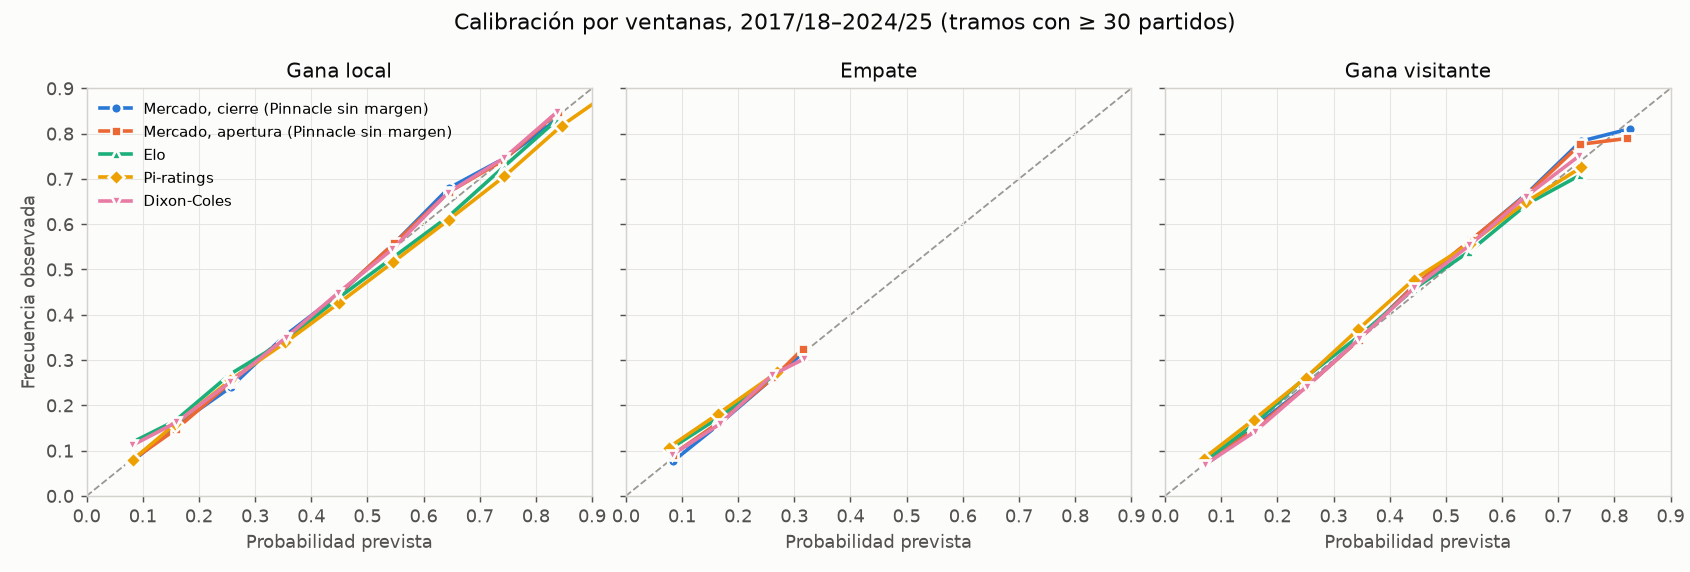
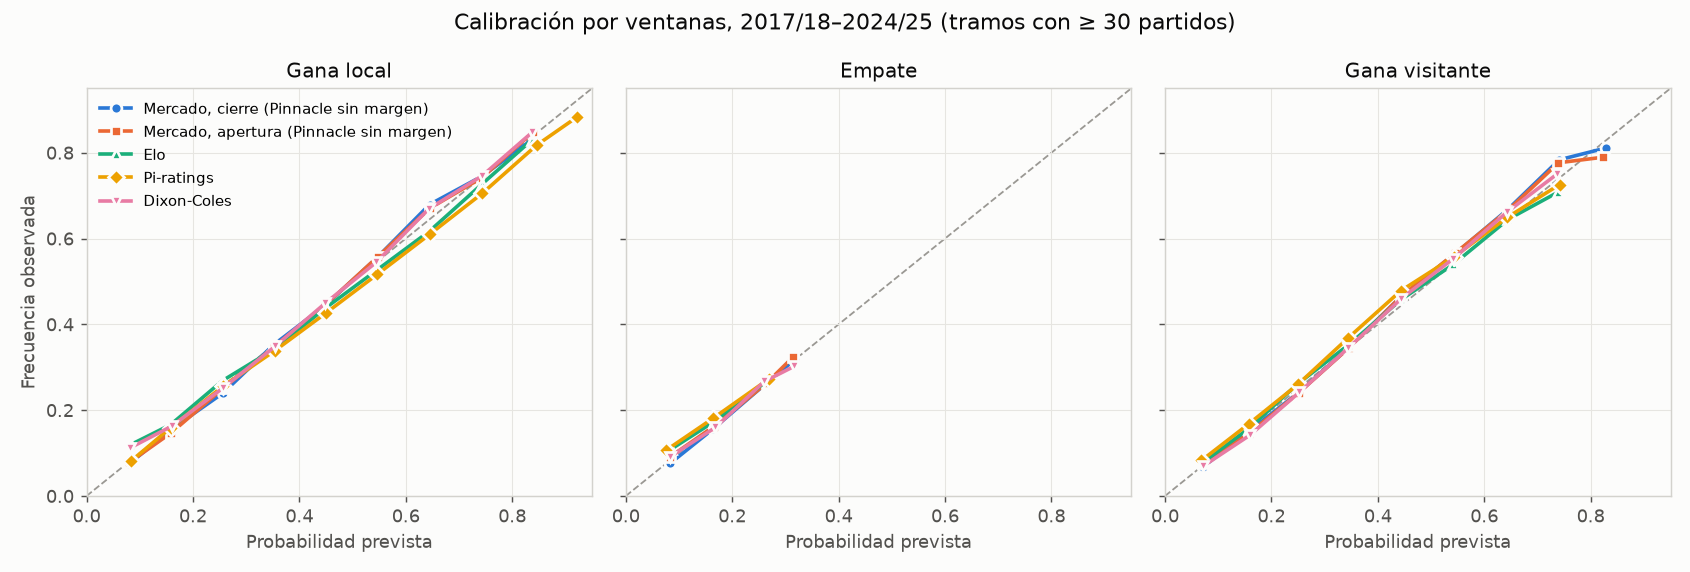
docs(referencias): evaluación 2017/18–2024/25 con código commiteado y tabla comparativa

diff --git a/scripts/fase2_referencias.py b/scripts/fase2_referencias.py
@@ -213,7 +213,9 @@ def write_report(overall, rec, sub, by_league, cal, configs, h) -> None:
             cal_rows.append(cells)
     calib = md_table(["Resultado", "Tramo"] + [NAMES[v] for v in order], cal_rows)
     params = "\n".join(f"- **{NAMES[v]}:** `{json.dumps(p, ensure_ascii=False)}`" for v, p in configs.items() if p)
-    n_tried = sum(1 for r in ex.read() if r["fase"] == "ajuste" and r["variante"] != REF)
+    tuning_rows = [r for r in ex.read() if r["fase"] == "ajuste" and r["variante"] != REF]
+    n_rows = len(tuning_rows)
+    n_tried = len({(r["variante"], json.dumps(r["parametros"], sort_keys=True)) for r in tuning_rows})
     n_eval = sum(1 for r in ex.read() if r["fase"] == "evaluacion") // max(len(configs), 1)
     text = f"""# Modelos de referencia 1X2 (fase 2)
 
@@ -228,7 +230,7 @@ los datos de partidos no se suben. Hash de los datos evaluados: `{h}`.
   exp(−ξ·días)). Ninguna predicción usa partidos de su mismo día ni posteriores (tests en
   `tests/test_referencias.py`).
 - **Temporadas.** 2012/13 arranca los ratings. 2013/14–2016/17 sirvió para elegir hiperparámetros
-  ({n_tried} variantes registradas, regla: mínimo log loss). 2017/18–2024/25 es la evaluación (evaluaciones registradas
+  ({n_tried} variantes distintas en {n_rows} filas del registro; regla: mínimo log loss). 2017/18–2024/25 es la evaluación (evaluaciones registradas
   hasta hoy: {n_eval}). **2025/26 no se ha leído.**
 - **Conjunto común.** {overall['n']} partidos de 8 ligas con probabilidad de todos los modelos
   ({overall['n_descartados']} descartados por faltar alguna cuota). La referencia es el cierre de

diff --git a/docs/referencias.md b/docs/referencias.md
@@ -11,10 +11,10 @@ los datos de partidos no se suben. Hash de los datos evaluados: `3e3b9ea6a34b8bf
   exp(−ξ·días)). Ninguna predicción usa partidos de su mismo día ni posteriores (tests en
   `tests/test_referencias.py`).
 - **Temporadas.** 2012/13 arranca los ratings. 2013/14–2016/17 sirvió para elegir hiperparámetros
-  (24 variantes registradas, regla: mínimo log loss). 2017/18–2024/25 es la evaluación (esta
-  configuración se ha evaluado 1 vez/veces). **2025/26 no se ha leído.**
-- **Conjunto común.** 26668 partidos de 8 ligas con probabilidad de todos los modelos
-  (67 descartados por faltar alguna cuota). La referencia es el cierre de
+  (23 variantes distintas en 46 filas del registro; regla: mínimo log loss). 2017/18–2024/25 es la evaluación (evaluaciones registradas
+  hasta hoy: 2). **2025/26 no se ha leído.**
+- **Conjunto común.** 26660 partidos de 8 ligas con probabilidad de todos los modelos
+  (75 descartados por faltar alguna cuota). La referencia es el cierre de
   Pinnacle sin margen (normalización proporcional).
 - **Intervalos.** IC 95 % por bootstrap de semanas (350 semanas ISO, 2.000
   remuestras): los partidos de una misma jornada no son independientes. Las diferencias (Δ) son
@@ -31,8 +31,8 @@ Hiperparámetros elegidos en el ajuste:
 | Modelo | Log loss [IC 95 %] | RPS [IC 95 %] | Δ log loss vs cierre | Δ RPS vs cierre | ECE |
 |---|---|---|---|---|---|
 | Mercado, cierre (Pinnacle sin margen) | 0.9944 [0.9895, 0.9992] | 0.2015 [0.2001, 0.2029] | — | — | 0.0067 |
-| Mercado, apertura (Pinnacle sin margen) | 0.9972 [0.9924, 1.0019] | 0.2024 [0.2010, 0.2038] | +0.0028 [+0.0018, +0.0037] | +0.0008 [+0.0005, +0.0011] | 0.0071 |
-| Elo | 1.0144 [1.0093, 1.0194] | 0.2077 [0.2063, 0.2092] | +0.0200 [+0.0177, +0.0224] | +0.0062 [+0.0055, +0.0070] | 0.0085 |
+| Mercado, apertura (Pinnacle sin margen) | 0.9972 [0.9924, 1.0019] | 0.2024 [0.2010, 0.2037] | +0.0028 [+0.0018, +0.0037] | +0.0009 [+0.0005, +0.0011] | 0.0071 |
+| Elo | 1.0145 [1.0093, 1.0194] | 0.2077 [0.2062, 0.2092] | +0.0200 [+0.0177, +0.0224] | +0.0062 [+0.0055, +0.0070] | 0.0085 |
 | Pi-ratings | 1.0153 [1.0101, 1.0203] | 0.2080 [0.2065, 0.2095] | +0.0209 [+0.0184, +0.0233] | +0.0064 [+0.0057, +0.0072] | 0.0143 |
 | Dixon-Coles | 1.0134 [1.0085, 1.0178] | 0.2075 [0.2061, 0.2088] | +0.0190 [+0.0168, +0.0212] | +0.0059 [+0.0052, +0.0066] | 0.0074 |
 
@@ -54,8 +54,8 @@ ECE: error de calibración esperado (10 tramos, media de local, empate y visitan
 |---|---|---|---|---|---|---|
 | 2017/18 | 3377 | 0.9829 | +0.0038 [+0.0012, +0.0063] | +0.0199 [+0.0128, +0.0275] | +0.0200 [+0.0117, +0.0288] | +0.0205 [+0.0131, +0.0279] |
 | 2018/19 | 3368 | 0.9914 | +0.0027 [+0.0001, +0.0052] | +0.0223 [+0.0162, +0.0285] | +0.0229 [+0.0176, +0.0288] | +0.0201 [+0.0145, +0.0260] |
-| 2019/20 | 3125 | 1.0057 | +0.0032 [+0.0003, +0.0062] | +0.0195 [+0.0119, +0.0271] | +0.0192 [+0.0125, +0.0267] | +0.0163 [+0.0104, +0.0222] |
-| 2020/21 | 3383 | 1.0057 | +0.0032 [+0.0002, +0.0060] | +0.0259 [+0.0183, +0.0330] | +0.0305 [+0.0228, +0.0388] | +0.0205 [+0.0135, +0.0270] |
+| 2019/20 | 3124 | 1.0058 | +0.0032 [+0.0003, +0.0062] | +0.0195 [+0.0119, +0.0271] | +0.0192 [+0.0125, +0.0267] | +0.0163 [+0.0104, +0.0221] |
+| 2020/21 | 3376 | 1.0058 | +0.0032 [+0.0001, +0.0060] | +0.0260 [+0.0183, +0.0330] | +0.0305 [+0.0228, +0.0389] | +0.0206 [+0.0136, +0.0272] |
 | 2021/22 | 3389 | 0.9954 | +0.0017 [-0.0005, +0.0039] | +0.0188 [+0.0132, +0.0240] | +0.0186 [+0.0122, +0.0246] | +0.0212 [+0.0148, +0.0275] |
 | 2022/23 | 3392 | 1.0013 | +0.0023 [-0.0004, +0.0053] | +0.0112 [+0.0046, +0.0172] | +0.0134 [+0.0059, +0.0203] | +0.0132 [+0.0072, +0.0188] |
 | 2023/24 | 3316 | 0.9862 | +0.0029 [+0.0004, +0.0053] | +0.0208 [+0.0147, +0.0266] | +0.0203 [+0.0132, +0.0270] | +0.0192 [+0.0126, +0.0252] |
@@ -69,12 +69,12 @@ ECE: error de calibración esperado (10 tramos, media de local, empate y visitan
 |---|---|---|---|---|---|---|
 | D1 | 2447 | 0.9789 | +0.0011 | +0.0194 | +0.0208 | +0.0209 |
 | E0 | 3040 | 0.9457 | +0.0039 | +0.0208 | +0.0218 | +0.0179 |
-| E1 | 4413 | 1.0339 | +0.0015 | +0.0144 | +0.0179 | +0.0138 |
-| E2 | 4253 | 1.0199 | +0.0041 | +0.0221 | +0.0249 | +0.0190 |
+| E1 | 4411 | 1.0340 | +0.0015 | +0.0144 | +0.0179 | +0.0138 |
+| E2 | 4248 | 1.0198 | +0.0041 | +0.0221 | +0.0249 | +0.0191 |
 | F1 | 2785 | 0.9829 | +0.0028 | +0.0242 | +0.0244 | +0.0219 |
 | I1 | 3036 | 0.9484 | +0.0023 | +0.0226 | +0.0218 | +0.0228 |
 | SP1 | 3036 | 0.9724 | +0.0031 | +0.0183 | +0.0179 | +0.0174 |
-| SP2 | 3658 | 1.0331 | +0.0032 | +0.0203 | +0.0182 | +0.0210 |
+| SP2 | 3657 | 1.0333 | +0.0032 | +0.0203 | +0.0182 | +0.0209 |
 
 ## Calibración
 
@@ -87,24 +87,24 @@ Probabilidad media prevista → frecuencia observada (partidos), por tramos de 0
 |---|---|---|---|---|---|---|
 | local | 0.0–0.1 | 0.079 → 0.074 (284) | 0.080 → 0.078 (256) | 0.083 → 0.120 (167) | 0.083 → 0.080 (174) | 0.082 → 0.112 (134) |
 | local | 0.1–0.2 | 0.158 → 0.154 (1638) | 0.159 → 0.147 (1574) | 0.158 → 0.166 (1384) | 0.158 → 0.159 (1196) | 0.160 → 0.162 (1151) |
-| local | 0.2–0.3 | 0.256 → 0.240 (3588) | 0.256 → 0.251 (3444) | 0.256 → 0.269 (3430) | 0.256 → 0.255 (2894) | 0.256 → 0.251 (3139) |
-| local | 0.3–0.4 | 0.352 → 0.353 (6179) | 0.353 → 0.348 (6332) | 0.353 → 0.343 (5831) | 0.354 → 0.339 (5566) | 0.355 → 0.349 (6689) |
-| local | 0.4–0.5 | 0.448 → 0.444 (6394) | 0.448 → 0.444 (6589) | 0.450 → 0.439 (6460) | 0.449 → 0.426 (6991) | 0.448 → 0.449 (7688) |
-| local | 0.5–0.6 | 0.547 → 0.556 (4479) | 0.547 → 0.558 (4459) | 0.547 → 0.527 (4945) | 0.546 → 0.516 (5156) | 0.544 → 0.544 (4563) |
-| local | 0.6–0.7 | 0.645 → 0.679 (2342) | 0.645 → 0.671 (2306) | 0.644 → 0.617 (2694) | 0.645 → 0.610 (2739) | 0.643 → 0.669 (2080) |
-| local | 0.7–0.8 | 0.744 → 0.746 (1227) | 0.743 → 0.742 (1209) | 0.743 → 0.727 (1274) | 0.744 → 0.706 (1253) | 0.744 → 0.747 (880) |
+| local | 0.2–0.3 | 0.256 → 0.240 (3588) | 0.256 → 0.251 (3444) | 0.256 → 0.269 (3430) | 0.256 → 0.255 (2894) | 0.256 → 0.251 (3138) |
+| local | 0.3–0.4 | 0.352 → 0.353 (6175) | 0.353 → 0.348 (6328) | 0.353 → 0.342 (5829) | 0.354 → 0.339 (5564) | 0.355 → 0.349 (6687) |
+| local | 0.4–0.5 | 0.448 → 0.444 (6392) | 0.448 → 0.444 (6587) | 0.450 → 0.439 (6456) | 0.449 → 0.426 (6987) | 0.448 → 0.449 (7684) |
+| local | 0.5–0.6 | 0.547 → 0.556 (4478) | 0.547 → 0.558 (4459) | 0.547 → 0.527 (4944) | 0.546 → 0.516 (5155) | 0.544 → 0.544 (4563) |
+| local | 0.6–0.7 | 0.645 → 0.679 (2341) | 0.645 → 0.671 (2305) | 0.644 → 0.617 (2694) | 0.645 → 0.610 (2739) | 0.643 → 0.669 (2079) |
+| local | 0.7–0.8 | 0.744 → 0.746 (1227) | 0.743 → 0.742 (1208) | 0.743 → 0.727 (1273) | 0.744 → 0.705 (1252) | 0.744 → 0.747 (880) |
 | local | 0.8–0.9 | 0.841 → 0.834 (512) | 0.840 → 0.849 (482) | 0.837 → 0.829 (475) | 0.846 → 0.817 (597) | 0.838 → 0.848 (329) |
 | local | 0.9–1.0 | — | — | — | 0.921 → 0.882 (102) | — |
 | empate | 0.0–0.1 | 0.084 → 0.077 (209) | 0.084 → 0.091 (175) | 0.086 → 0.110 (146) | 0.076 → 0.107 (365) | 0.083 → 0.091 (99) |
-| empate | 0.1–0.2 | 0.164 → 0.156 (2656) | 0.165 → 0.162 (2665) | 0.165 → 0.172 (2570) | 0.165 → 0.181 (2564) | 0.168 → 0.159 (2082) |
-| empate | 0.2–0.3 | 0.265 → 0.263 (18366) | 0.265 → 0.263 (19302) | 0.270 → 0.273 (23952) | 0.270 → 0.273 (23739) | 0.260 → 0.267 (21099) |
-| empate | 0.3–0.4 | 0.317 → 0.318 (5435) | 0.315 → 0.324 (4522) | — | — | 0.317 → 0.302 (3385) |
+| empate | 0.1–0.2 | 0.164 → 0.156 (2656) | 0.165 → 0.162 (2664) | 0.165 → 0.172 (2569) | 0.165 → 0.181 (2563) | 0.168 → 0.160 (2081) |
+| empate | 0.2–0.3 | 0.265 → 0.263 (18358) | 0.265 → 0.263 (19296) | 0.270 → 0.273 (23945) | 0.270 → 0.273 (23732) | 0.260 → 0.267 (21092) |
+| empate | 0.3–0.4 | 0.317 → 0.318 (5435) | 0.315 → 0.324 (4521) | — | — | 0.317 → 0.302 (3385) |
 | empate | 0.4–0.5 | — | — | — | — | — |
-| visitante | 0.0–0.1 | 0.071 → 0.068 (1407) | 0.072 → 0.076 (1335) | 0.074 → 0.080 (1271) | 0.068 → 0.083 (1501) | 0.071 → 0.069 (959) |
-| visitante | 0.1–0.2 | 0.157 → 0.150 (5458) | 0.157 → 0.145 (5265) | 0.157 → 0.157 (5699) | 0.158 → 0.168 (5757) | 0.160 → 0.142 (4343) |
-| visitante | 0.2–0.3 | 0.251 → 0.241 (7986) | 0.251 → 0.240 (8002) | 0.249 → 0.261 (8185) | 0.250 → 0.261 (8799) | 0.252 → 0.241 (8968) |
-| visitante | 0.3–0.4 | 0.345 → 0.345 (5946) | 0.345 → 0.345 (6295) | 0.345 → 0.352 (6092) | 0.344 → 0.368 (5914) | 0.345 → 0.345 (6991) |
-| visitante | 0.4–0.5 | 0.443 → 0.464 (3067) | 0.443 → 0.464 (3010) | 0.444 → 0.458 (3080) | 0.443 → 0.478 (2645) | 0.444 → 0.460 (3107) |
+| visitante | 0.0–0.1 | 0.071 → 0.068 (1407) | 0.072 → 0.076 (1334) | 0.074 → 0.080 (1270) | 0.068 → 0.083 (1500) | 0.071 → 0.069 (959) |
+| visitante | 0.1–0.2 | 0.157 → 0.150 (5456) | 0.157 → 0.145 (5264) | 0.157 → 0.157 (5698) | 0.158 → 0.169 (5756) | 0.160 → 0.142 (4342) |
+| visitante | 0.2–0.3 | 0.251 → 0.241 (7985) | 0.251 → 0.240 (8001) | 0.249 → 0.261 (8181) | 0.250 → 0.260 (8795) | 0.252 → 0.241 (8965) |
+| visitante | 0.3–0.4 | 0.345 → 0.345 (5941) | 0.345 → 0.345 (6290) | 0.345 → 0.352 (6091) | 0.344 → 0.368 (5912) | 0.345 → 0.345 (6988) |
+| visitante | 0.4–0.5 | 0.443 → 0.464 (3067) | 0.443 → 0.464 (3010) | 0.444 → 0.458 (3079) | 0.443 → 0.478 (2645) | 0.444 → 0.460 (3106) |
 | visitante | 0.5–0.6 | 0.546 → 0.566 (1616) | 0.545 → 0.566 (1627) | 0.542 → 0.539 (1407) | 0.542 → 0.557 (1200) | 0.542 → 0.553 (1491) |
 | visitante | 0.6–0.7 | 0.644 → 0.667 (754) | 0.644 → 0.665 (737) | 0.645 → 0.645 (665) | 0.643 → 0.649 (579) | 0.642 → 0.661 (593) |
 | visitante | 0.7–0.8 | 0.741 → 0.783 (360) | 0.739 → 0.776 (340) | 0.739 → 0.708 (240) | 0.742 → 0.726 (248) | 0.737 → 0.750 (192) |
